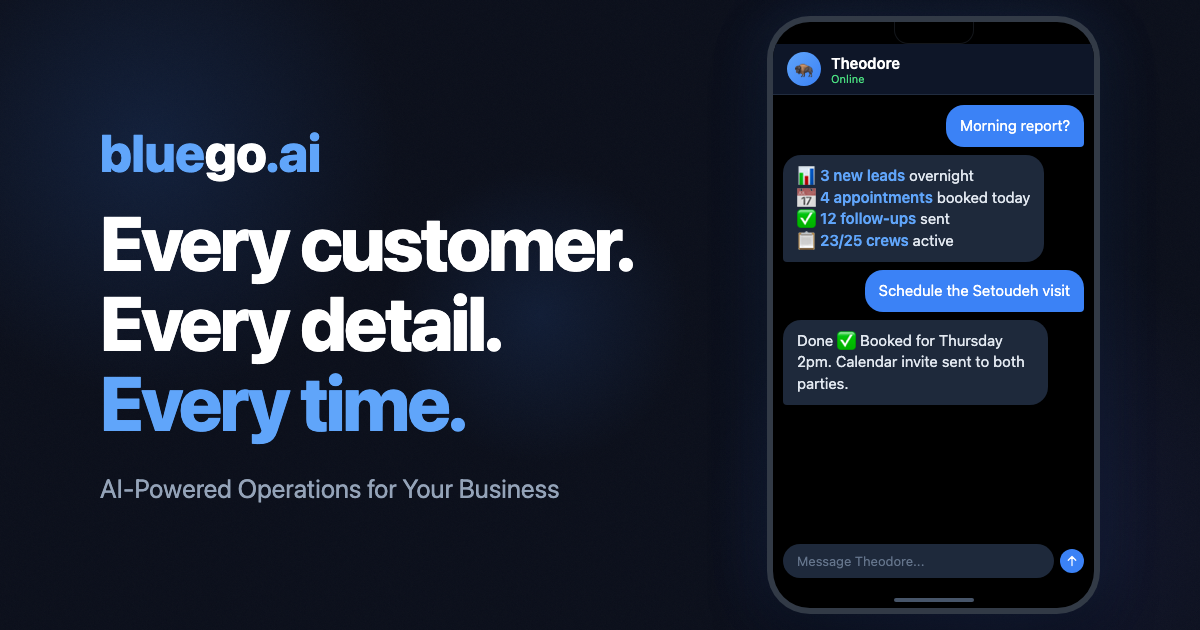
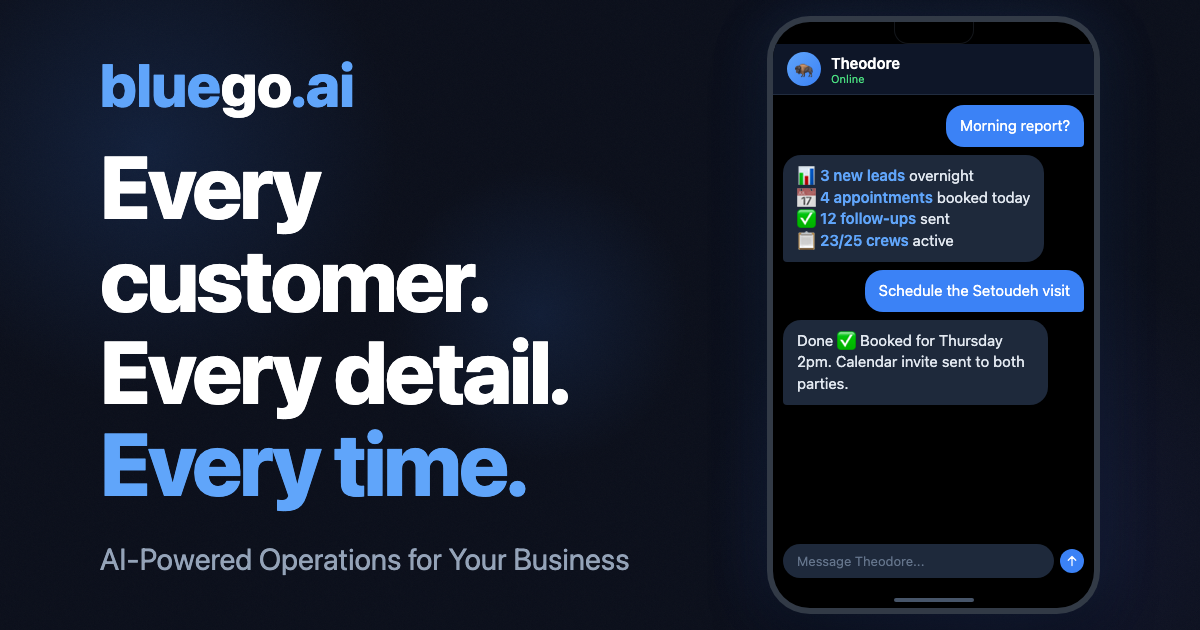
OG: bigger text across the board

Changed region(s): [[0.0617, 0.0905, 0.5242, 0.8143], [0.0617, 0.8746, 0.5242, 0.9048]]

diff --git a/og-generator.html b/og-generator.html
@@ -64,7 +64,7 @@
   }
 
   .brand {
-    font-size: 52px;
+    font-size: 60px;
     font-weight: 800;
     letter-spacing: -0.5px;
   }
@@ -72,7 +72,7 @@
   .brand .white { color: #fff; }
 
   .tagline {
-    font-size: 76px;
+    font-size: 88px;
     font-weight: 800;
     line-height: 1.05;
     letter-spacing: -2.5px;
@@ -83,7 +83,7 @@
   }
 
   .subtitle {
-    font-size: 26px;
+    font-size: 30px;
     color: #94a3b8;
     line-height: 1.5;
     margin-top: 6px;
